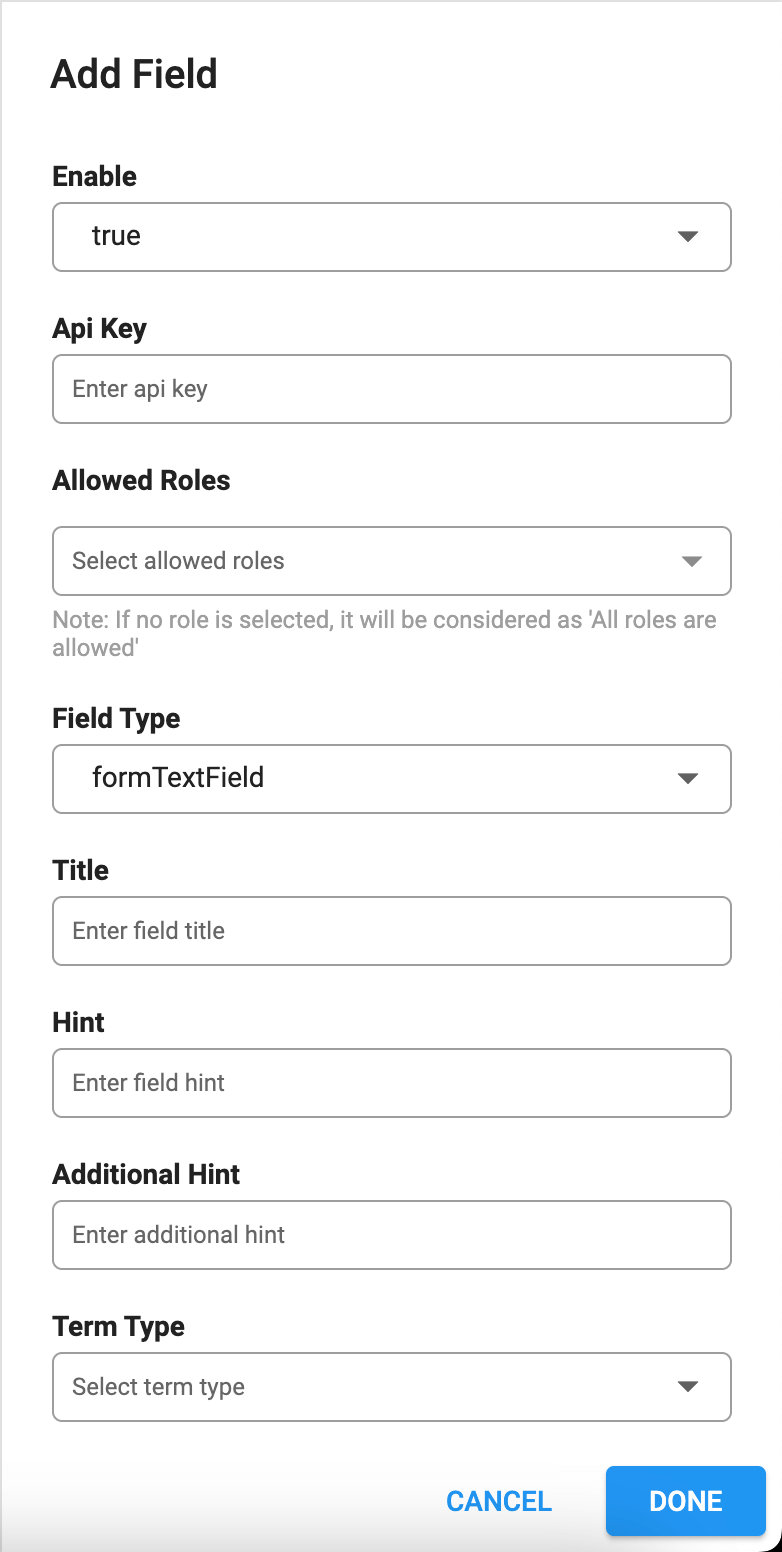
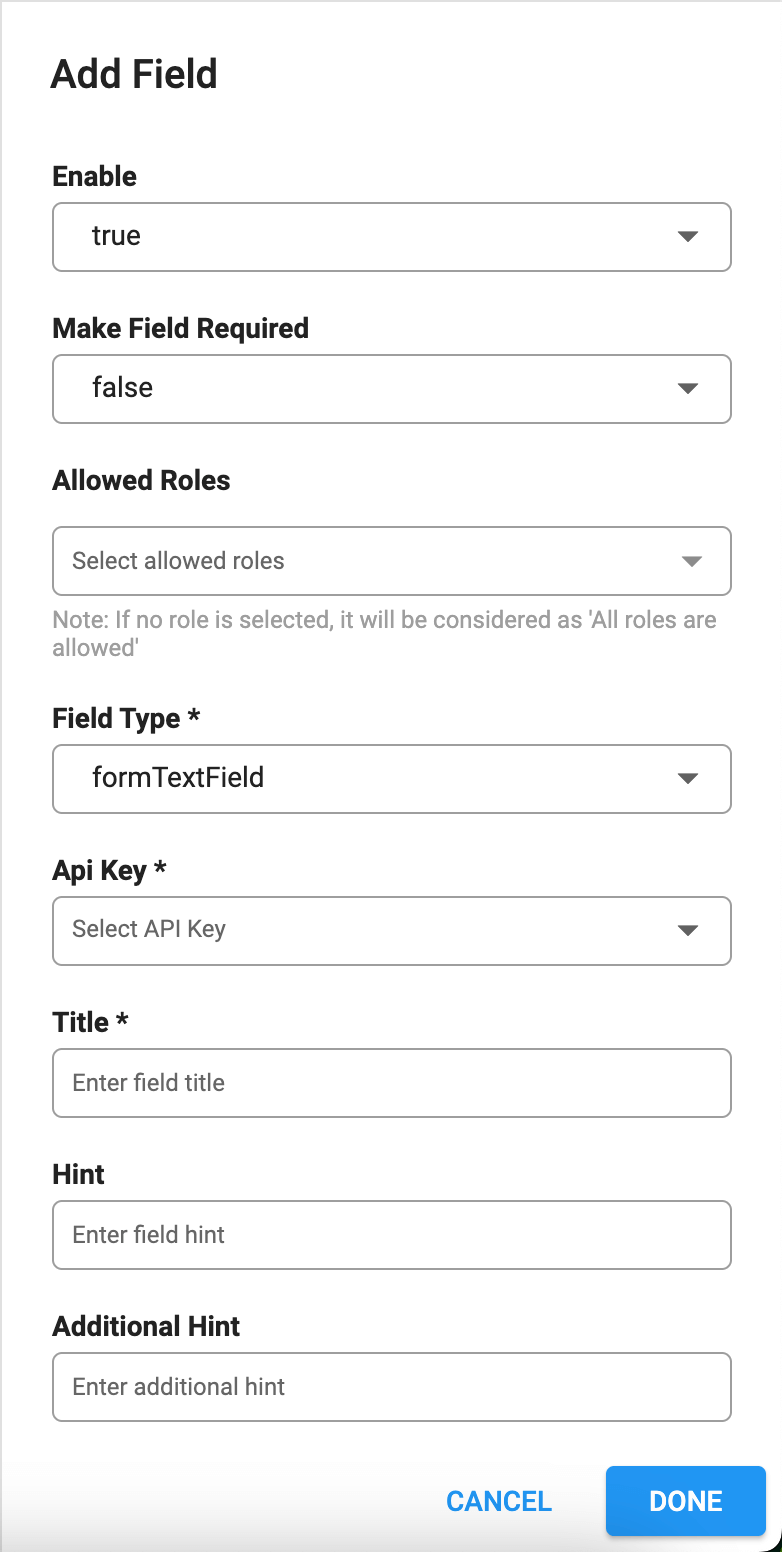
Documentation on Add Property Dynamically is in progress (commit # 03)

diff --git a/_docs/houzi-builder/12_customize-add-property-form.md b/_docs/houzi-builder/12_customize-add-property-form.md
@@ -43,9 +43,7 @@ You can `Add` a new Page in **Add Property Form** by following these steps:
 
 - Enter the **Title** of page.
 
-- If you want to **restrict** this page to some specific users e.g. *administrator, houzez_agnecy etc.*, select these specific roles from the multiselect dropdown menu. 
-
-- If you want to make the page **public** (available to all users), unselect all the roles (if any role is selected).
+- If you want to **restrict** this page to some specific users e.g. *administrator, houzez_agnecy etc.*, select these specific roles from the **Allowed Roles** multiselect dropdown menu. If you want to make the page **public** (available to all users), unselect all the roles (if any role is selected).
 
 - Now [Add New Section/Sections](#add-new-section) in this page.
 
@@ -79,22 +77,52 @@ You can `Add` a new Field in Section by following these steps:
       
 - The value of **Enable** field determines wether to *show/hide* the field on section. If you and to *show* the field, set the value to **true**. If you and to *hide* the field, set the value to **false**.
 
-- **[Required]** Enter the **Api Key** of field e.g. *fave_property_bedrooms etc.* The corresponding data of field will be sent to this key when **Add Property API** will be called.
-    > *Note (In following cases, 'Authentic API key not required'):   
-    > * Incase of **formMediaField** provide any key e.g. prop_media .
-    > * Incase of **formCustomField** provide any key e.g. custom_field .
+- If you want to make the input of any field **required**, set the value of **Make Field Required** as *true*. Similarly if you want to make the input of any field **optional**, set the value of **Make Field Required** as *false*.
 
-- If you want to **restrict** this field to some specific users e.g. *administrator, houzez_agnecy etc.*, select these specific roles from the multiselect dropdown menu.
+- If you want to **restrict** this field to some specific users e.g. *administrator, houzez_agnecy etc.*, select these specific roles from the **Allowed Roles** multiselect dropdown menu. If you want to make the field **public** (available to all users), unselect all the roles (if any role is selected).
 
-- If you want to make the field **public** (available to all users), unselect all the roles (if any role is selected).
-
-- Select the **Field Type** from dropdown menu.
+- **Field Type** is the type of *Form Widget* that you want to display on screen. e.g. Input Text Field, Dropdown etc. Select the desired *Form Widget Type* from **Field Type** dropdown.
 
     <img src="../../images/field_type_dropdown.png" alt="field-type-dropdown" title="field-type-dropdown" border= "1px solid"/> 
 
-    You can choose from a list of options which field you want to display. The description of *Field Type* is as follows: 
+    The description of **Field Type** is as follows: 
 
-    * **formTextField** should be used, if you want to take *text* input from user. e.g. Property Title, Property Price etc.
+    * **formTextField** should be used, if you want to take *text* input from user. e.g. Property Title, Property Price etc. You can define some assisting attributes like:
+
+         <img src="../../images/form_text_field_options.png" alt="form-text-field-options" title="form-text-field-options" border= "1px solid"/>  
+        
+        * **Hint** is used as place holder for your field. e.g. *Enter property title* etc.
+
+        * **Additional Hint** is used to provide extra assisting information about the field. e.g. additional hint of property price field: *Only digits* etc.
+
+        * **Validation Types** are defined as follows:
+
+            <img src="../../images/validation_type_options.png" alt="validation-type-options" title="validation-type-options" border= "1px solid"/> 
+
+            * **String Validation** is used to check if the input is *non-empty*. Otherwise it will return error.
+
+            * **Email Validation** is used to check if the entered input is properly *email-formatted*. Otherwise it will return error.
+
+            * **Password Validation** is used to check if the entered input is properly *password-formatted*. Otherwise it will return error.
+
+            * **Phone Number Validation** is used to check if the entered input is properly *phone-number-formatted*. Otherwise it will return error.
+
+            * **User Name Validation** is used to check if the entered input is properly *user-name-formatted*. Otherwise it will return error.
+
+        * **Max Lines** is used to define the max lines of field. If you want to show a *Text Area* for any property attribute e.g. Property Description, simply set the max lines to *5* or *7* as you desire.
+        * **Keyboard Type** are defined as follows:
+
+            <img src="../../images/keyboard_type_options.png" alt="keyboard-type-options" title="keyboard-type-options" border= "1px solid"/> 
+
+            * **Text** is used to if you want to show normal keyboard for text input.
+
+            * **Number** is used to if you want to show *Numeric* keyboard for text input.
+
+            * **URL** is used to if you want to show *URL* assistive  keyboard for URL input.
+
+            * **Email** is used to if you want to show *Email* assistive  keyboard for email input.
+
+            * **MultiLine** is used to if you want to show text keyboard for *multi-line* input.
 
     * **formMultiSelectField** should be used, if you want to take *multiple* inputs from the user. e.g. Property Features (e.g. Garage, Pool etc.), Property Type (Commercail, Office etc.) etc.
 
@@ -107,6 +135,11 @@ You can `Add` a new Field in Section by following these steps:
     * **formAdditionalDetailsField** should be used, if you want to take some *additional details/features* about property from user e.g. Equipment: Grill - Gas, Deposit: 20% etc.
 
     * **formCustomField** should be used, if you want to take user input in your custom defined Houzez fields.
+
+- **[Required]** Enter the **Api Key** of field e.g. *fave_property_bedrooms etc.* The corresponding data of field will be sent to this key when **Add Property API** will be called.
+    > *Note (In following cases, 'Authentic API key not required'):   
+    > * Incase of **formMediaField** provide any key e.g. prop_media .
+    > * Incase of **formCustomField** provide any key e.g. custom_field .
 
 - **[Required]** Enter the **Title** of field.
 
